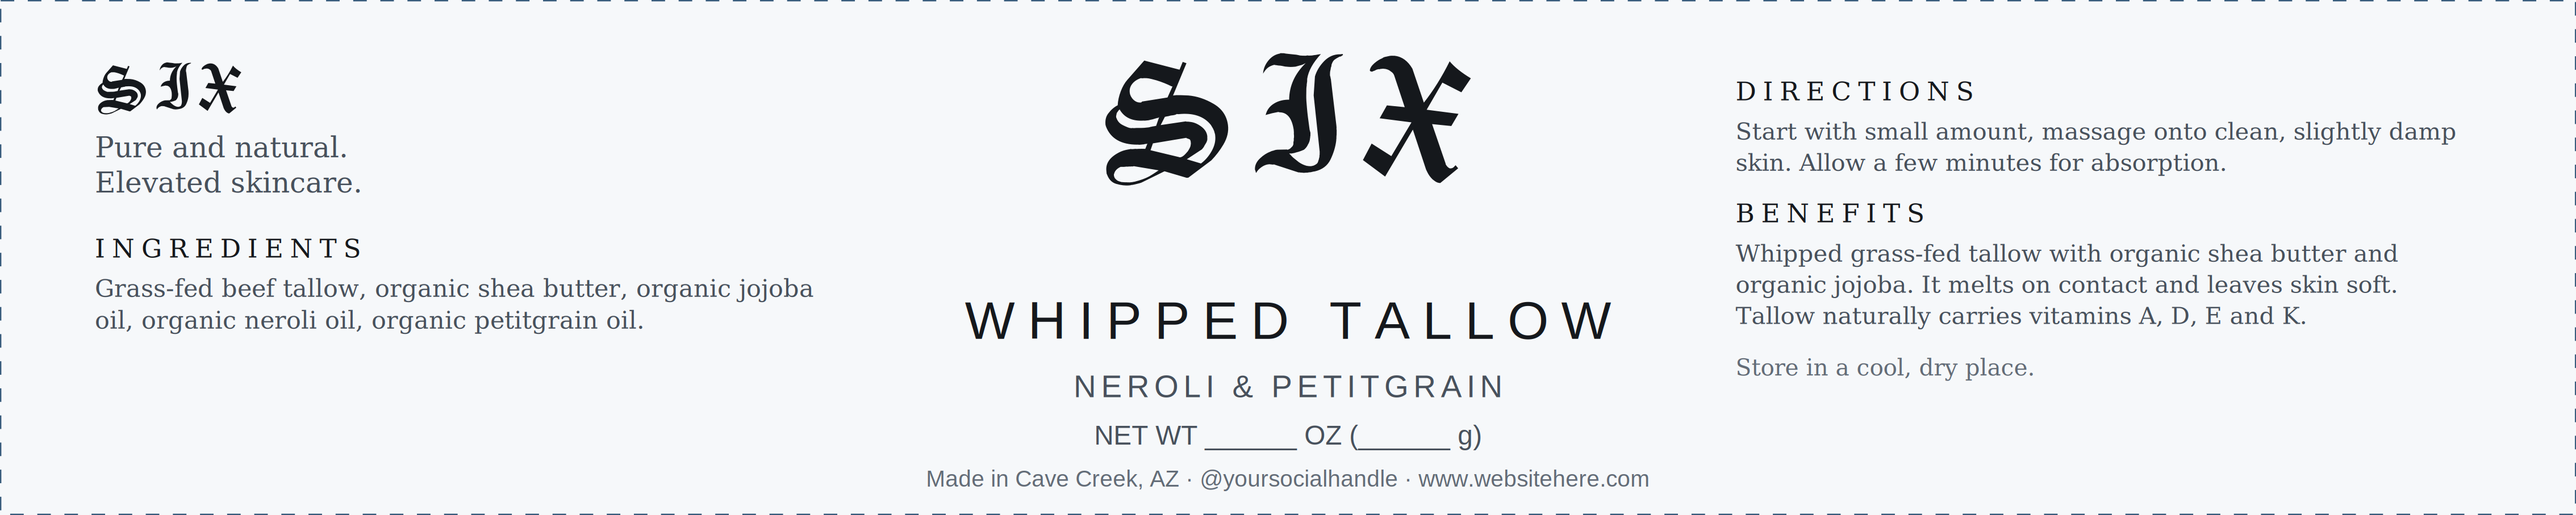
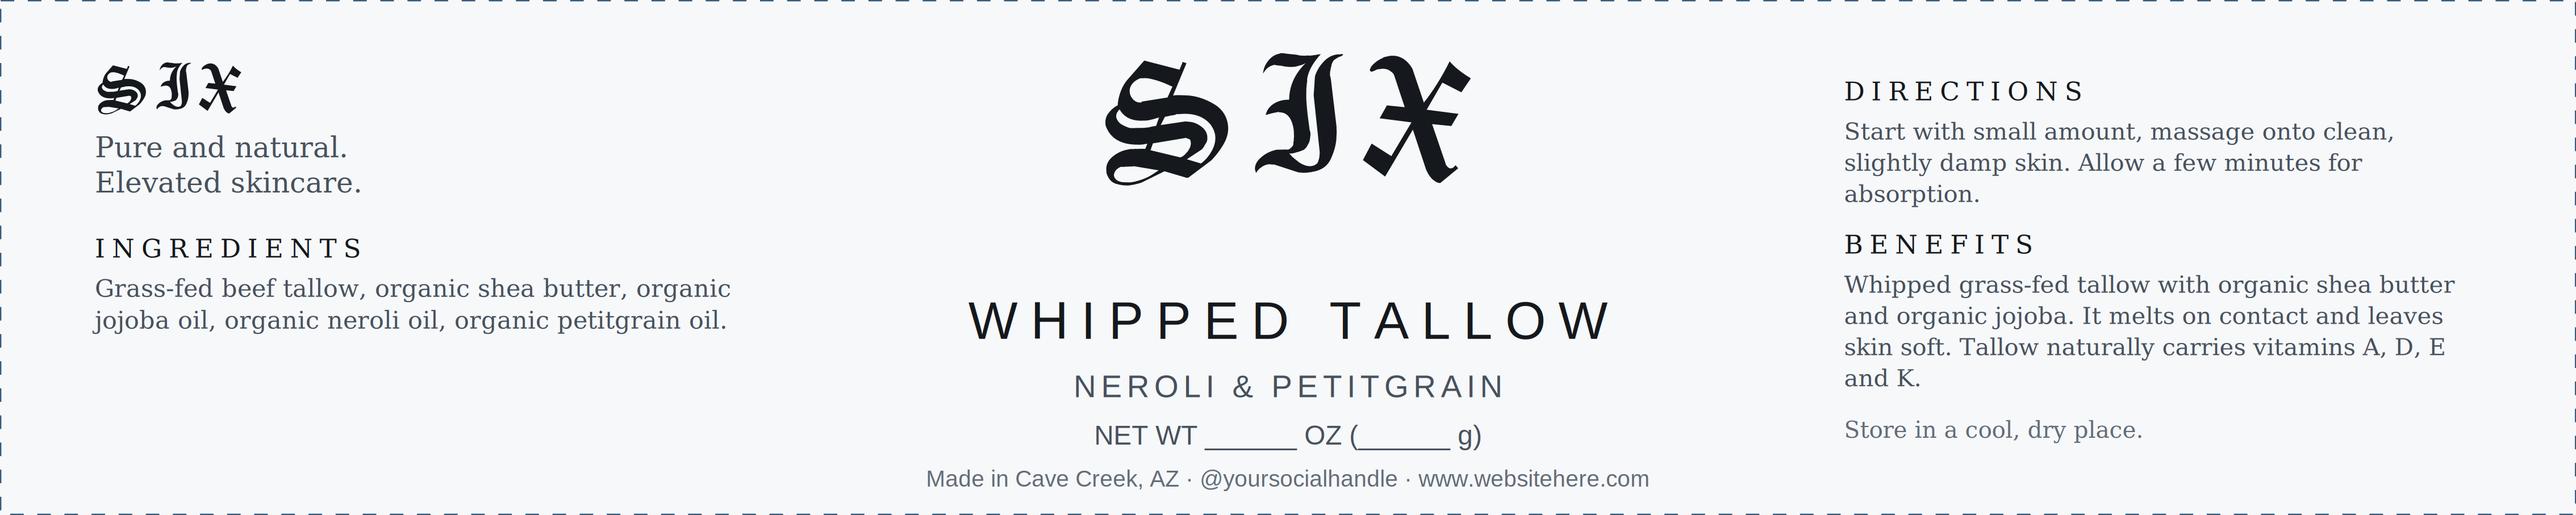
Widen the gutters either side of the centre panel
The side columns are narrower and held out at the label margins, and the
centre is capped a little tighter, so there is real space between the three
blocks rather than a few millimetres.

Claude-Session: https://claude.ai/code/session_01TYn4u9H1AxY32yb73P56yk

diff --git a/scripts/make-labels.py b/scripts/make-labels.py
@@ -366,7 +366,9 @@ def front_label(p, mark, guides, net) -> str:
     path, vw, vh = mark
     w, h = FRONT_WIDTH, FRONT_HEIGHT
 
-    left_x, col = 7.0, 55.0
+    # Narrow side columns, held out at the margins, so the gutters either
+    # side of the centre are wide enough to read as deliberate space.
+    left_x, col = 7.0, 47.0
     right_x = w - 7.0 - col
     centre = w / 2
 
@@ -380,14 +382,14 @@ def front_label(p, mark, guides, net) -> str:
 
     # Sans under the blackletter. A second serif competes with it; a plain
     # grotesque lets the mark be the only decorated thing on the label.
-    title = fit("WHIPPED TALLOW", 3.9, 50.0, 0.95, serif=False)
+    title = fit("WHIPPED TALLOW", 3.9, 48.0, 0.95, serif=False)
     out.append(
         text(centre, 25.0, "WHIPPED TALLOW", title, serif=False, anchor="middle",
              tracking=0.95)
     )
 
     blend = nobreak(p["name"]).upper()
-    size = fit(blend, 2.3, 52.0, 0.35, serif=False)
+    size = fit(blend, 2.3, 48.0, 0.35, serif=False)
     out.append(
         text(centre, 29.3, blend, size, serif=False, anchor="middle",
              fill=INK_SOFT, tracking=0.35)
